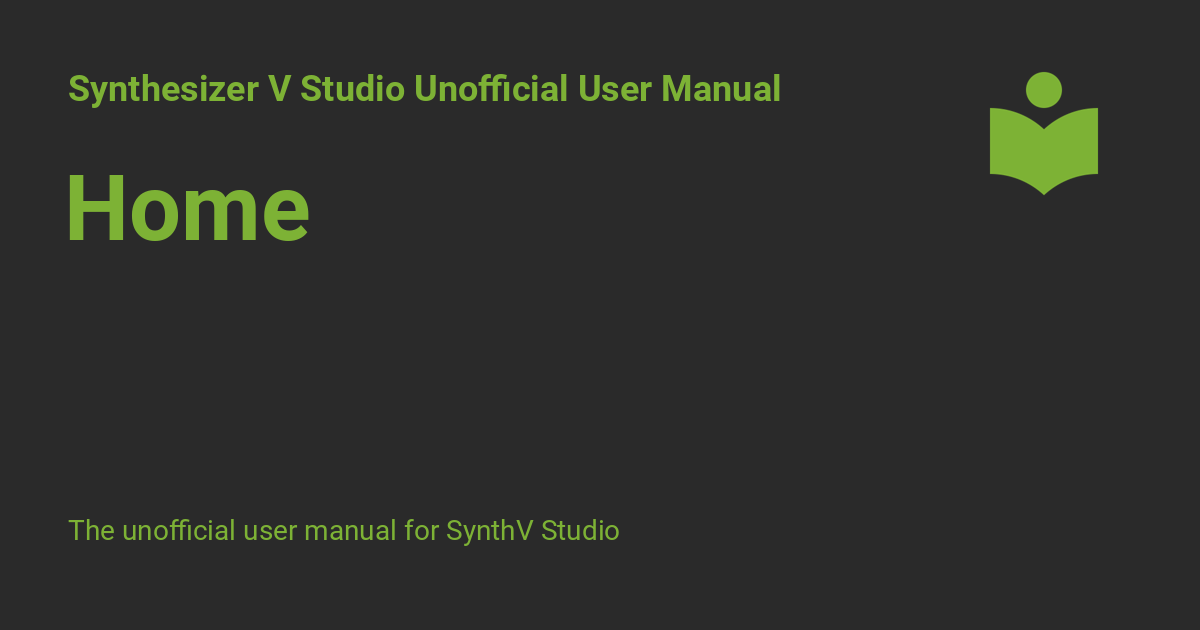
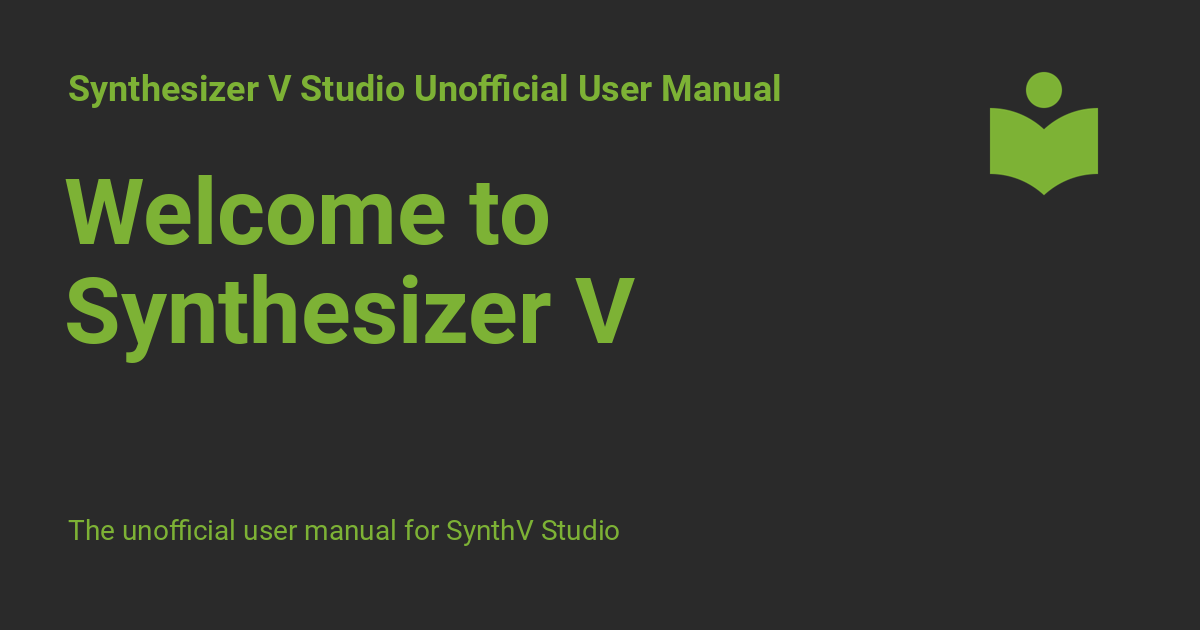
Deployed b9ab14f with MkDocs version: 1.4.2

Changed region(s): [[0.0308, 0.4222, 0.5242, 0.573], [0.0308, 0.2714, 0.4625, 0.3921]]

diff --git a/index.html b/index.html
@@ -11,7 +11,7 @@
 <link href="workspace/layout/" rel="next"/>
 <link href="img/icon.ico" rel="icon"/>
 <meta content="mkdocs-1.4.2, mkdocs-material-9.0.6" name="generator"/>
-<title>Synthesizer V Studio Unofficial User Manual</title>
+<title>Welcome to Synthesizer V - Synthesizer V Studio Unofficial User Manual</title>
 <link href="assets/stylesheets/main.558e4712.min.css" rel="stylesheet"/>
 <link href="assets/stylesheets/palette.2505c338.min.css" rel="stylesheet"/>
 <link crossorigin="" href="https://fonts.gstatic.com" rel="preconnect"/>
@@ -23,7 +23,7 @@
 <script id="__analytics">function __md_analytics(){function n(){dataLayer.push(arguments)}window.dataLayer=window.dataLayer||[],n("js",new Date),n("config","G-0PEEE87FR1"),document.addEventListener("DOMContentLoaded",function(){document.forms.search&&document.forms.search.query.addEventListener("blur",function(){this.value&&n("event","search",{search_term:this.value})}),document$.subscribe(function(){var a=document.forms.feedback;if(void 0!==a)for(var e of a.querySelectorAll("[type=submit]"))e.addEventListener("click",function(e){e.preventDefault();var t=document.location.pathname,e=this.getAttribute("data-md-value");n("event","feedback",{page:t,data:e}),a.firstElementChild.disabled=!0;e=a.querySelector(".md-feedback__note [data-md-value='"+e+"']");e&&(e.hidden=!1)}),a.hidden=!1}),location$.subscribe(function(e){n("config","G-0PEEE87FR1",{page_path:e.pathname})})});var e=document.createElement("script");e.async=!0,e.src="https://www.googletagmanager.com/gtag/js?id=G-0PEEE87FR1",document.getElementById("__analytics").insertAdjacentElement("afterEnd",e)}</script>
 <script>var consent;"undefined"==typeof __md_analytics||(consent=__md_get("__consent"))&&consent.analytics&&__md_analytics()</script>
 <meta content="website" property="og:type"/>
-<meta content="Home" property="og:title"/>
+<meta content="Welcome to Synthesizer V" property="og:title"/>
 <meta content="The unofficial user manual for SynthV Studio" property="og:description"/>
 <meta content="https://manual.synthv.info/assets/images/social/index.png" property="og:image"/>
 <meta content="image/png" property="og:image:type"/>
@@ -31,7 +31,7 @@
 <meta content="630" property="og:image:height"/>
 <meta content="https://manual.synthv.info/" property="og:url"/>
 <meta content="summary_large_image" name="twitter:card"/>
-<meta content="Home" name="twitter:title"/>
+<meta content="Welcome to Synthesizer V" name="twitter:title"/>
 <meta content="The unofficial user manual for SynthV Studio" name="twitter:description"/>
 <meta content="https://manual.synthv.info/assets/images/social/index.png" name="twitter:image"/>
 <link href="assets/stylesheets/glightbox.min.css" rel="stylesheet"/><style>
@@ -76,7 +76,7 @@
 <div class="md-header__topic" data-md-component="header-topic">
 <span class="md-ellipsis">
             
-              Home
+              Welcome to Synthesizer V
             
           </span>
 </div>
@@ -483,7 +483,7 @@
 <small>
     
       Last update:
-      <span class="git-revision-date-localized-plugin git-revision-date-localized-plugin-timeago"><span class="timeago" datetime="2023-01-22T16:14:19+00:00" locale="en"></span></span><span class="git-revision-date-localized-plugin git-revision-date-localized-plugin-iso_date">2023-01-22</span>
+      <span class="git-revision-date-localized-plugin git-revision-date-localized-plugin-timeago"><span class="timeago" datetime="2023-01-22T19:38:10+00:00" locale="en"></span></span><span class="git-revision-date-localized-plugin git-revision-date-localized-plugin-iso_date">2023-01-22</span>
 <br/>
         Created:
         <span class="git-revision-date-localized-plugin git-revision-date-localized-plugin-timeago"><span class="timeago" datetime="2023-01-15T02:30:29+00:00" locale="en"></span></span><span class="git-revision-date-localized-plugin git-revision-date-localized-plugin-iso_date">2023-01-15</span>
